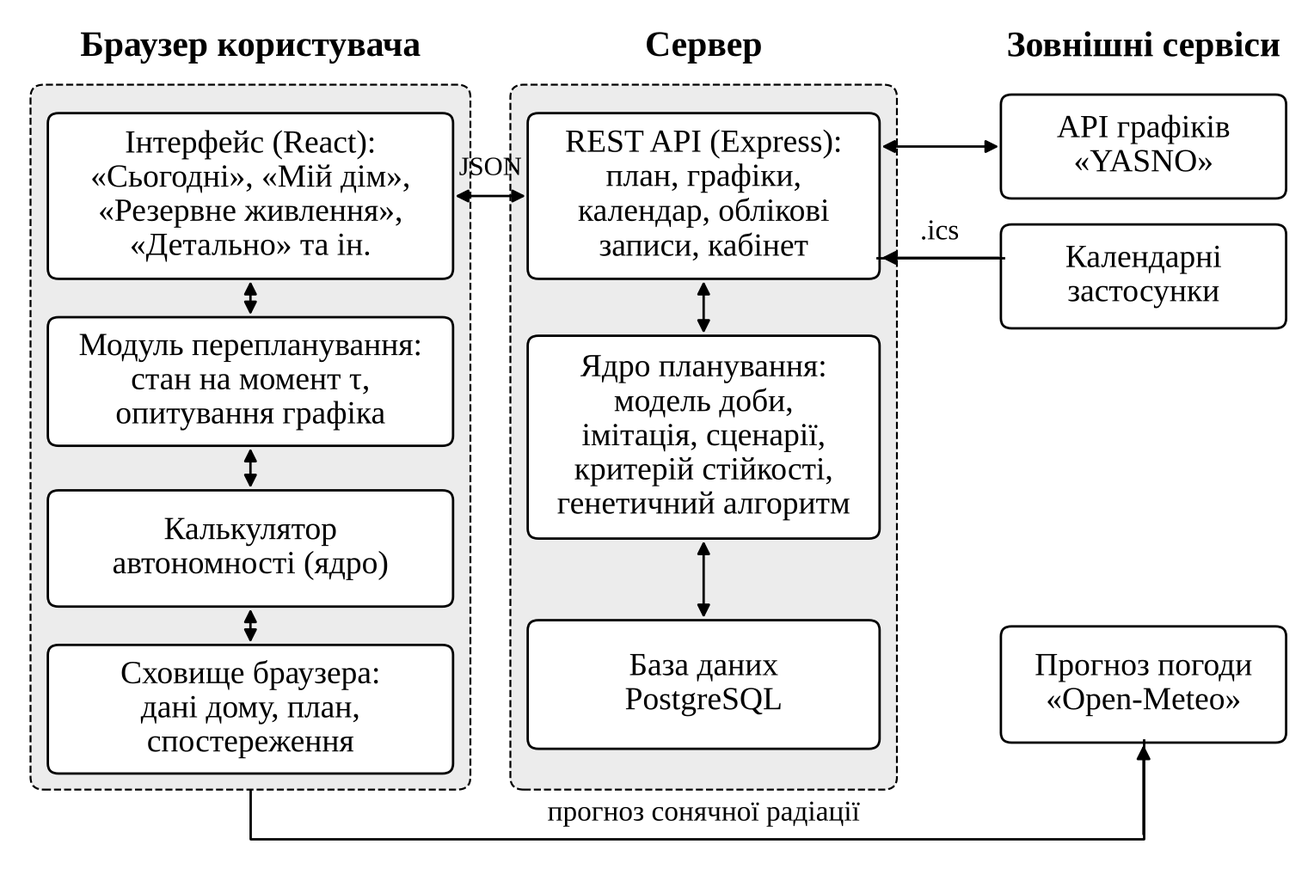
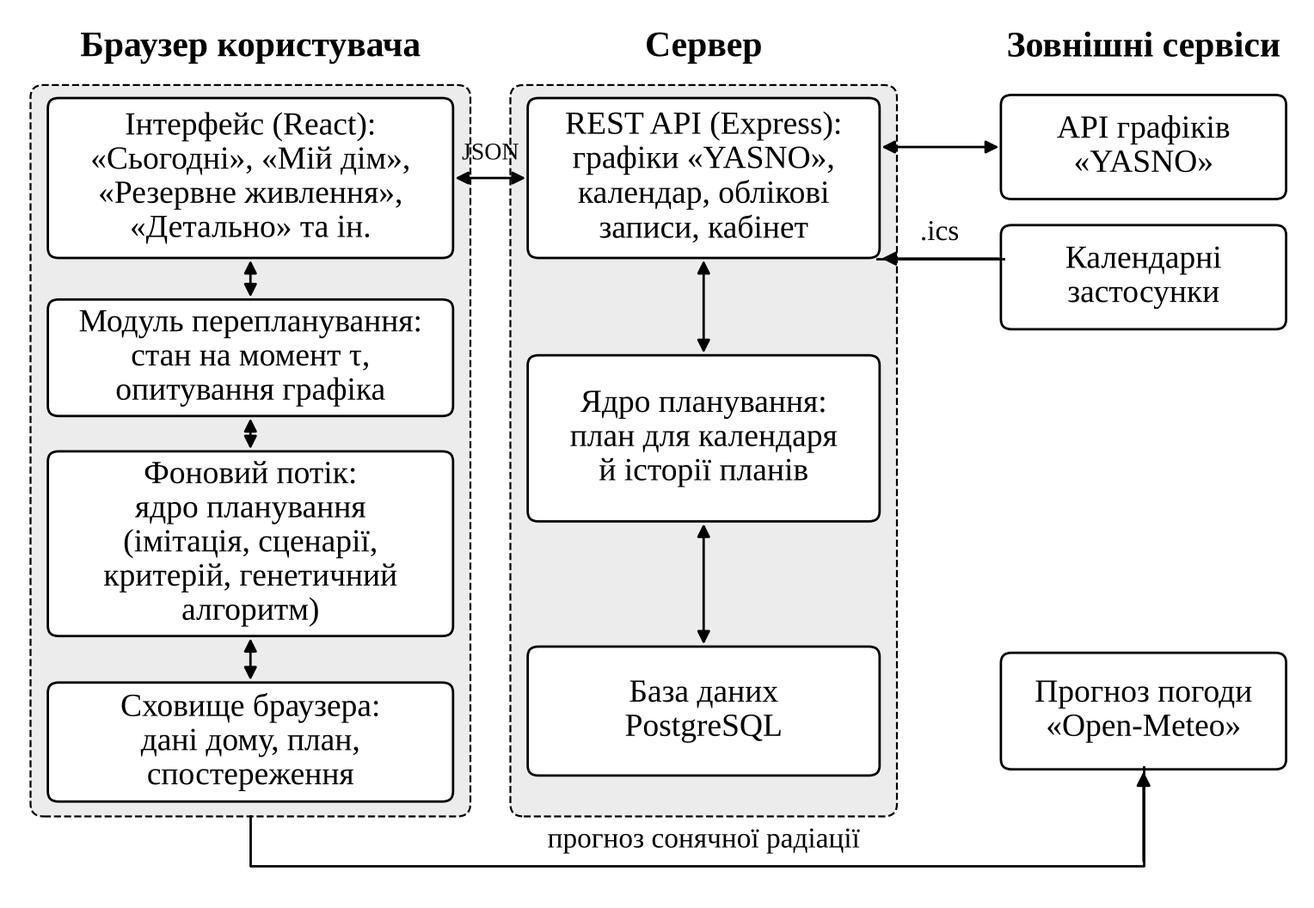
Розділ 2 за поточним станом сервісу: план у браузері, поради щодо приладів, календар у базі
Підрозділ 2.9 описує розрахунок плану у фоновому потоці браузера,
розгортання на Netlify і Render, поради щодо приладів і розрахунковий
стан станції та панелей, таблицю calendar_subscriptions. Рис. 2.5
перемальовано, табл. 2.7 доповнено. У build.py дуже довгі назви полів
у таблицях можуть розриватися після «_».

Claude-Session: https://claude.ai/code/session_01LEJhfhQpdjBqb79k9T4kmb

diff --git a/docs/thesis/figures/make.py b/docs/thesis/figures/make.py
@@ -117,37 +117,37 @@ def ga_scheme():
 
 
 def service_scheme():
-    fig, ax = canvas(9.6, 6.4)
-    ax.set_ylim(-0.45, 6.4)
+    fig, ax = canvas(9.6, 6.6)
+    ax.set_ylim(-0.45, 6.6)
     grey = '#ececec'
     for cx, title in [(1.75, 'Браузер користувача'), (5.15, 'Сервер'), (8.45, 'Зовнішні сервіси')]:
-        ax.text(cx, 6.15, title, ha='center', va='center', fontsize=15, fontweight='bold')
-    ax.add_patch(FancyBboxPatch((0.1, 0.15), 3.3, 5.7, boxstyle='round,pad=0,rounding_size=0.1', fc=grey, ec='black', lw=0.8, ls='--'))
-    ax.add_patch(FancyBboxPatch((3.7, 0.15), 2.9, 5.7, boxstyle='round,pad=0,rounding_size=0.1', fc=grey, ec='black', lw=0.8, ls='--'))
-    box(ax, 1.75, 4.95, 3.0, 1.3, 'Інтерфейс (React):\n«Сьогодні», «Мій дім»,\n«Резервне живлення»,\n«Детально» та ін.', size=13.5)
-    box(ax, 1.75, 3.45, 3.0, 1.0, 'Модуль перепланування:\nстан на момент τ,\nопитування графіка', size=13.5)
-    box(ax, 1.75, 2.1, 3.0, 0.9, 'Калькулятор\nавтономності (ядро)', size=13.5)
-    box(ax, 1.75, 0.8, 3.0, 1.0, 'Сховище браузера:\nдані дому, план,\nспостереження', size=13.5)
-    box(ax, 5.15, 4.95, 2.6, 1.3, 'REST API (Express):\nплан, графіки,\nкалендар, облікові\nзаписи, кабінет', size=13.5)
-    box(ax, 5.15, 3.0, 2.6, 1.6, 'Ядро планування:\nмодель доби,\nімітація, сценарії,\nкритерій стійкості,\nгенетичний алгоритм', size=13.5)
+        ax.text(cx, 6.35, title, ha='center', va='center', fontsize=15, fontweight='bold')
+    ax.add_patch(FancyBboxPatch((0.1, 0.15), 3.3, 5.9, boxstyle='round,pad=0,rounding_size=0.1', fc=grey, ec='black', lw=0.8, ls='--'))
+    ax.add_patch(FancyBboxPatch((3.7, 0.15), 2.9, 5.9, boxstyle='round,pad=0,rounding_size=0.1', fc=grey, ec='black', lw=0.8, ls='--'))
+    box(ax, 1.75, 5.3, 3.0, 1.25, 'Інтерфейс (React):\n«Сьогодні», «Мій дім»,\n«Резервне живлення»,\n«Детально» та ін.', size=13.5)
+    box(ax, 1.75, 3.85, 3.0, 0.9, 'Модуль перепланування:\nстан на момент τ,\nопитування графіка', size=13.5)
+    box(ax, 1.75, 2.35, 3.0, 1.45, 'Фоновий потік:\nядро планування\n(імітація, сценарії,\nкритерій, генетичний\nалгоритм)', size=13.5)
+    box(ax, 1.75, 0.75, 3.0, 0.92, 'Сховище браузера:\nдані дому, план,\nспостереження', size=13.5)
+    box(ax, 5.15, 5.3, 2.6, 1.25, 'REST API (Express):\nграфіки «YASNO»,\nкалендар, облікові\nзаписи, кабінет', size=13.5)
+    box(ax, 5.15, 3.2, 2.6, 1.3, 'Ядро планування:\nплан для календаря\nй історії планів', size=13.5)
     box(ax, 5.15, 1.0, 2.6, 1.0, 'База даних\nPostgreSQL', size=13.5)
-    box(ax, 8.45, 5.35, 2.1, 0.8, 'API графіків\n«YASNO»', size=13.5)
-    box(ax, 8.45, 4.3, 2.1, 0.8, 'Календарні\nзастосунки', size=13.5)
+    box(ax, 8.45, 5.55, 2.1, 0.8, 'API графіків\n«YASNO»', size=13.5)
+    box(ax, 8.45, 4.5, 2.1, 0.8, 'Календарні\nзастосунки', size=13.5)
     box(ax, 8.45, 1.0, 2.1, 0.9, 'Прогноз погоди\n«Open-Meteo»', size=13.5)
 
     def both(p1, p2):
         ax.annotate('', xy=p2, xytext=p1, arrowprops=dict(arrowstyle='<|-|>', color='black', lw=1, mutation_scale=11))
 
-    both((3.25, 4.95), (3.85, 4.95))
-    ax.text(3.55, 5.12, 'JSON', ha='center', fontsize=11)
-    both((1.75, 4.3), (1.75, 3.95))
-    both((1.75, 2.95), (1.75, 2.55))
-    both((1.75, 1.65), (1.75, 1.3))
-    both((5.15, 4.3), (5.15, 3.8))
-    both((5.15, 2.2), (5.15, 1.5))
-    both((6.45, 5.35), (7.4, 5.35))
-    arrow(ax, [(7.4, 4.45), (6.45, 4.45)])
-    ax.text(6.92, 4.6, '.ics', ha='center', fontsize=12)
+    both((3.25, 5.3), (3.85, 5.3))
+    ax.text(3.55, 5.45, 'JSON', ha='center', fontsize=10)
+    both((1.75, 4.675), (1.75, 4.3))
+    both((1.75, 3.4), (1.75, 3.075))
+    both((1.75, 1.625), (1.75, 1.21))
+    both((5.15, 4.675), (5.15, 3.85))
+    both((5.15, 2.55), (5.15, 1.5))
+    both((6.45, 5.55), (7.4, 5.55))
+    arrow(ax, [(7.4, 4.65), (6.45, 4.65)])
+    ax.text(6.92, 4.8, '.ics', ha='center', fontsize=12)
     # браузер сам запитує прогноз сонячної радіації
     arrow(ax, [(1.75, 0.15), (1.75, -0.25), (8.45, -0.25), (8.45, 0.55)])
     ax.text(5.15, -0.1, 'прогноз сонячної радіації', ha='center', fontsize=12)

diff --git a/docs/thesis/build.py b/docs/thesis/build.py
@@ -34,6 +34,7 @@ try:
 except ImportError:
     HYPHEN = None
 SHY = '\u00ad'   # м'який перенос: Word показує дефіс, лише коли справді переносить слово
+ZWSP = '\u200b'  # невидиме місце розриву рядка без дефіса
 
 BODY = '0'          # «0» у шаблоні: основний текст з відступом 1,25 см
 H1, H2 = '1', '2'
@@ -160,6 +161,8 @@ def table(doc, rows):
     t = doc.add_table(rows=len(rows), cols=len(rows[0]))
     t.style = doc.styles['Table Grid']
     t.autofit = False
+    # дуже довгу назву з бази (`calendar_subscriptions`) дозволяємо розривати після «_»
+    rows = [[re.sub(r'`([^`]{17,})`', lambda m: '`' + m.group(1).replace('_', '_' + ZWSP) + '`', cell) for cell in row] for row in rows]
     # Ширина колонки пропорційна середній довжині тексту в ній, але не менша за найдовше слово,
     # щоб слова не розривалися; разом 170 мм (ширина тексту на сторінці).
     minimum = min_widths(rows)
@@ -169,7 +172,7 @@ def table(doc, rows):
         minimum = min_widths(rows)
     if sum(minimum) > 170:
         minimum = [m * 170 / sum(minimum) for m in minimum]
-    weights = [max(sum(len(row[c].replace(SHY, '')) for row in rows) / len(rows), 4) for c in range(len(rows[0]))]
+    weights = [max(sum(len(re.sub(f'[{SHY}{ZWSP}]', '', row[c])) for row in rows) / len(rows), 4) for c in range(len(rows[0]))]
     widths = [170 * w / sum(weights) for w in weights]
     for _ in range(len(widths)):
         narrow = [c for c, w in enumerate(widths) if w < minimum[c] - 1e-6]
@@ -216,7 +219,7 @@ def min_widths(rows):
     for c in range(len(rows[0])):
         pieces = []
         for row in rows:
-            for word in re.sub(r'[`*{}^]', '', row[c]).split():
+            for word in re.split(f'[\\s{ZWSP}]+', re.sub(r'[`*{}^]', '', row[c])):
                 parts = word.split(SHY)
                 pieces += [p + '-' for p in parts[:-1]] + parts[-1:]
         out.append(word_mm(max(pieces, key=word_mm, default='')) + 2 * CELL_MARGIN_MM + 0.6)

diff --git a/docs/thesis/rozdil-2.md b/docs/thesis/rozdil-2.md
@@ -315,27 +315,43 @@ S_i(τ) = {max(e_i, τ), …, l_i − d_i} ∪ {−1}. (2.16)
 
 Метод, описаний у підрозділах 2.1–2.8, реалізується у веб-сервісі. Користувачем сервісу є мешканець квартири або приватного будинку, який має зарядну станцію і, можливо, генератор чи сонячні панелі. Виходячи з поставлених у підрозділі 1.6 завдань і огляду аналогів, сформульовано такі функціональні вимоги до сервісу:
 
-– введення даних домогосподарства: постійних навантажень, приладів з вікнами роботи і пріоритетами, резервних джерел;
+– введення даних домогосподарства: постійних навантажень, приладів з вікнами роботи і пріоритетами, резервних джерел (однієї або кількох станцій, генераторів і сонячних панелей);
 
 – отримання графіка відключень автоматично з відкритого програмного інтерфейсу «YASNO» для своєї черги або введення графіка вручну для інших регіонів;
+
+– отримання прогнозу сонячного випромінювання для місця, де встановлено панелі;
 
 – складання плану на сьогодні й завтра запропонованим методом і порівняння з базовими методами;
 
 – відображення плану у вигляді, зрозумілому без технічних знань: які прилади можна вмикати зараз, які краще пізніше і чому;
 
+– показ розрахункового стану резервних джерел на поточний момент: заряду станції, потужності, яку вона віддає, і генерації сонячних панелей;
+
 – перебудова плану після зміни графіка і за повідомленнями користувача про фактичний стан мережі;
 
 – оцінка автономності: на скільки годин вистачить резервних джерел при поточному навантаженні;
 
-– нагадування про дії за планом (сповіщення в браузері, експорт до календаря).
+– нагадування про дії за планом (сповіщення в браузері, експорт і підписка на календар).
 
-До нефункціональних вимог належать робота на мобільному телефоні, оскільки під час відключення комп'ютер часто недоступний, робота з останнім збереженим планом без зв'язку з сервером і відсутність платних зовнішніх сервісів.
+До нефункціональних вимог належать:
 
-Структурну схему сервісу наведено на рис. 2.5. Сервіс має клієнт-серверну архітектуру. Клієнтська частина виконується в браузері користувача і відповідає за інтерфейс, зберігання введених даних і перебудову плану. Серверна частина надає програмний інтерфейс (REST API) у форматі JSON, звертається до зовнішніх джерел графіків і містить ядро планування. Ядро оформлено як окремий модуль без залежностей від сервера і браузера, тому той самий код використовується сервером, клієнтом (калькулятор автономності) і програмами експериментів розділу 3.
+– робота на мобільному телефоні, оскільки під час відключення комп'ютер часто недоступний;
+
+– складання плану без зв'язку з сервером, бо під час відключень зв'язок теж буває нестабільним;
+
+– доступ за протоколом HTTPS, без якого браузер не дозволяє встановити сайт на телефон і показувати сповіщення;
+
+– відсутність платних зовнішніх сервісів.
+
+Структурну схему сервісу наведено на рис. 2.5. Сервіс має клієнт-серверну архітектуру, але план розраховується на боці клієнта. Ядро планування оформлено як окремий модуль без залежностей від сервера і браузера, тому той самий код виконується в браузері, на сервері і в програмах експериментів розділу 3. Клієнтська частина відповідає за інтерфейс, зберігання введених даних, розрахунок і перебудову плану. Генетичний алгоритм запускається в окремому фоновому потоці браузера (Web Worker), тож сторінка не зупиняється на час розрахунку. Серверна частина надає програмний інтерфейс (REST API) у форматі JSON: отримує графіки від оператора, обслуговує підписку на календар і облікові записи та працює з базою даних.
 
 ![Рисунок 2.5 – Структурна схема веб-сервісу](figures/ris-2-5.png)
 
-Графік «YASNO» сервер отримує через власний програмний інтерфейс, бо браузер не може звертатися до «YASNO» напряму з іншого домену. Отримані графіки кешуються на сервері на 5 хв, щоб не надсилати оператору зайвих запитів. Прогноз сонячного випромінювання, навпаки, браузер запитує в «Open-Meteo» сам, бо цей сервіс дозволяє такі запити. Сервер прогнозу не запитує, тому в планах, які він рахує сам, сонячні панелі враховуються за кількістю сонячних годин, переданою або збереженою разом з даними дому. Календарні застосунки періодично завантажують з сервера файл у форматі iCalendar, і сервер перераховує план за свіжим графіком, але не частіше ніж раз на 15 хв. Призначення основних модулів наведено в табл. 2.7.
+Розрахунок плану в браузері обрано з трьох причин. По-перше, так виконується вимога складати план без зв'язку з сервером. По-друге, сервер розміщено на безкоштовному тарифі хостингу, де обчислювальні ресурси обмежені, а сервер без запитів призупиняється і потім запускається до хвилини. По-третє, навантаження на сервер не зростає з кількістю користувачів, бо кожен браузер рахує план лише для свого домогосподарства. Сервер теж має ядро планування і рахує план сам у двох випадках: коли календарний застосунок завантажує файл без участі браузера і коли план зберігається в історії облікового запису.
+
+Графік «YASNO» сервер отримує через власний програмний інтерфейс, бо браузер не може звертатися до «YASNO» напряму з іншого домену. Отримані графіки кешуються на сервері на 5 хв, щоб не надсилати оператору зайвих запитів. Прогноз сонячного випромінювання, навпаки, браузер запитує в «Open-Meteo» сам, бо цей сервіс дозволяє такі запити. Сервер прогнозу не запитує, тому в планах, які він рахує сам, сонячні панелі враховуються за кількістю сонячних годин, переданою або збереженою разом з даними дому. Календарні застосунки періодично завантажують з сервера файл у форматі iCalendar, і сервер перераховує план за свіжим графіком, але не частіше ніж раз на 15 хв.
+
+Клієнтська частина після збирання є набором статичних файлів і розміщується на «Netlify», який також пересилає запити до програмного інтерфейсу (шлях `/api/`) на сервер. Сервер і база даних PostgreSQL розміщені на «Render». Обидва сервіси використовуються на безкоштовних тарифах і працюють за протоколом HTTPS, що відповідає нефункціональним вимогам. Призначення основних модулів наведено в табл. 2.7.
 
 Таблиця 2.7 – Модулі веб-сервісу
 
@@ -347,12 +363,18 @@ S_i(τ) = {max(e_i, τ), …, l_i − d_i} ∪ {−1}. (2.16)
 | Критерій стійкості | ядро | Обчислення F(s) за формулою (2.14) і оцінка плану на тестових сценаріях |
 | Методи планування | ядро | План без планування, жадібний алгоритм, генетичний алгоритм і його стійкий варіант |
 | Калькулятор автономності | ядро | Час роботи резервних джерел при заданому навантаженні |
-| Програмний інтерфейс | сервер | Запити на план, графіки «YASNO», календар, облікові записи, кабінет |
+| Програмний інтерфейс | сервер | Графіки «YASNO», підписка на календар, облікові записи, кабінет |
 | Сховище | сервер | Робота з базою даних PostgreSQL |
 | Інтерфейс користувача | клієнт | Розділи «Сьогодні», «Мій дім», «Резервне живлення», «Детально», «Як це працює» |
+| Фоновий розрахунок | клієнт | Виконання ядра планування в окремому потоці браузера |
 | Перепланування | клієнт | Стан на момент τ, опитування графіка, порівняння нового плану з попереднім |
+| Подання плану | клієнт | Поради щодо приладів на поточний момент, розрахунковий стан станції і сонячних панелей |
 
-Дані сервісу зберігаються двома способами. Без реєстрації дані домогосподарства, останній план і повідомлення користувача про фактичний стан мережі зберігаються в сховищі браузера, тож користуватися сервісом можна одразу. Для користувачів з обліковим записом сервер зберігає дані в реляційній базі PostgreSQL. Її структуру наведено в табл. 2.8.
+Окремо варто описати, як план подається користувачеві. На думку автора, розклад із точним часом запуску кожного приладу незручний для щоденного користування: щоб ним скористатися, людина мусить щоразу звіряти годинник з розкладом. Тому на головній сторінці для кожного приладу показано відповідь на просте питання, чи можна ввімкнути його зараз, з однією з трьох позначок: можна вмикати зараз; краще пізніше, із зазначенням часу і причини; сьогодні краще не вмикати. Відповідь отримується з імітації плану за опублікованим графіком (підрозділ 2.4). Для приладу перевіряється, чи вистачить на весь цикл ліміту мережі, потужності інвертора і заряду станції, якщо ввімкнути його зараз. Для приладів, які не можна живити від станції, додатково перевіряється запас 30 хв до наступного відключення, бо відключення може початися раніше за графік. Якщо ввімкнути прилад зараз не можна, радиться час із плану, а якщо прилад у план не потрапив, найближчий момент, коли цикл зможе відпрацювати. Повний розклад залишається доступним окремою кнопкою.
+
+З тієї самої імітації береться розрахунковий стан станції на поточний момент: заряд, потужність, яку станція віддає навантаженням або отримує на заряджання, і час, на який заряду вистачить до мінімально допустимого рівня. Генерація сонячних панелей на поточний момент обчислюється за формулами (2.8) і (2.9). Ці значення є розрахунком, а не вимірюванням, і в інтерфейсі так і позначені, бо фактична потужність приладів може відрізнятися від введеної користувачем. Якщо фактичний заряд станції інший, користувач вводить його, і план перебудовується з цього значення, як описано в підрозділі 2.8.
+
+Дані сервісу зберігаються двома способами. Без реєстрації дані домогосподарства, останній план і повідомлення користувача про фактичний стан мережі зберігаються в сховищі браузера, тож користуватися сервісом можна одразу. Для користувачів з обліковим записом передбачено зберігання даних на сервері в реляційній базі PostgreSQL. Крім того, у базі зберігаються підписки на календар, для яких обліковий запис не потрібен. Структуру бази наведено в табл. 2.8.
 
 Таблиця 2.8 – Структура бази даних
 
@@ -367,10 +389,13 @@ S_i(τ) = {max(e_i, τ), …, l_i − d_i} ∪ {−1}. (2.16)
 | `outage_schedules` | Збережені графіки | `household_id`, `name`, `day` | `households` |
 | `outage_intervals` | Інтервали відключень графіка | `schedule_id`, `starts_at`, `ends_at` | `outage_schedules` |
 | `plans` | Історія планів | `household_id`, `schedule_id`, `algorithm`, `input`, `result` | `households`, `outage_schedules` |
+| `calendar_subscriptions` | Підписки на календар | `token`, `household`, `choice`, `updated_at` | – |
 
 Поля таблиць відповідають позначенням моделі з табл. 2.1. Обмеження цілісності в базі (додатна потужність, пріоритет від 1 до 5, заряд від 0 до 100 %) збігаються з перевірками, які виконує модель доби, тож некоректні дані не потрапляють ні до бази, ні до розрахунку. Пароль зберігається лише у вигляді хешу, а в таблиці сесій – лише хеш токена з cookie, тому витік бази не дає змоги увійти від імені користувача. План у таблиці `plans` зберігається разом зі знімком вхідних даних (поле `input`) у форматі JSON, щоб його можна було відтворити навіть після зміни приладів. Усі резервні джерела зберігаються в одній таблиці `power_sources`, по рядку на джерело. Спільні поля (тип, назва, порядок) є в кожному рядку, а параметри станції, генератора і сонячних панелей мають свої стовпці. Обмеження в базі перевіряють, що для кожного типу задано все потрібне: для станції ємність, межі заряду і потужності, для генератора потужність, тривалість роботи на баку і рівень пального, для панелей пікову потужність і кількість сонячних годин або координати для прогнозу. Кілька станцій зберігаються окремо, а для планування зводяться в одну еквівалентну так, як описано в підрозділі 2.3.
 
-Типовий сценарій роботи виглядає так. Користувач один раз вводить дані про дім і вибирає свою чергу. Під час кожного відкриття сторінки клієнт отримує свіжий графік, надсилає серверу дані домогосподарства і момент τ, сервер будує модель, запускає стійкий генетичний алгоритм і повертає план разом з імітацією доби за опублікованим графіком та оцінкою на тестових сценаріях. Клієнт зберігає план і показує його. Поки сторінка відкрита, клієнт кожні 10 хв перевіряє графік і, якщо той змінився, запитує новий план з поточного моменту. Опис реалізації цих частин і результати експериментів наведено в розділі 3.
+Підписка на календар зберігається за випадковим токеном, який входить до посилання і відомий лише власникові, тому обліковий запис для неї не потрібен. Дані дому і вибрана черга «YASNO» записуються в поля `household` і `choice` у форматі JSON, щоб сервер міг перерахувати план без участі браузера. Ці дані зберігаються в базі, а не у файлі на сервері, бо на хостингу файли сервера стираються під час перезапуску.
+
+Типовий сценарій роботи виглядає так. Користувач один раз вводить дані про дім і вибирає свою чергу. Під час кожного відкриття сторінки клієнт отримує через сервер свіжий графік, будує модель з поточного моменту τ і запускає стійкий генетичний алгоритм у фоновому потоці. Результатом є план разом з імітацією доби за опублікованим графіком та оцінкою на тестових сценаріях. Клієнт зберігає план у сховищі браузера і показує поради щодо приладів і стан джерел. Поки сторінка відкрита, клієнт кожні 10 хв перевіряє графік і, якщо той змінився, перебудовує план з поточного моменту. Якщо зв'язку з сервером немає, план будується за останнім відомим графіком. Опис реалізації цих частин і результати експериментів наведено в розділі 3.
 
 ## Висновки до розділу 2
 
@@ -382,4 +407,6 @@ S_i(τ) = {max(e_i, τ), …, l_i − d_i} ∪ {−1}. (2.16)
 
 Генетичний алгоритм з цілочисельним кодуванням дає змогу шукати план за стійким критерієм за час, прийнятний для веб-сервісу: повний перебір навіть для п'яти приладів вимагав би близько 2·10^{9} імітацій доби. Те, що звичайний і стійкий варіанти алгоритму відрізняються лише критерієм, дає змогу в розділі 3 оцінити внесок саме урахування невизначеності.
 
-Перебудова плану з поточного моменту доповнює стійкий план: стійкість зменшує шкоду від змін, про які ще не відомо, а перебудова використовує зміни, про які вже стало відомо. Спроектований веб-сервіс з ядром планування, спільним для сервера, клієнта й експериментів, дає змогу перевірити метод на тестових розрахунках і в дослідній експлуатації, що описано в розділі 3.
+Перебудова плану з поточного моменту доповнює стійкий план: стійкість зменшує шкоду від змін, про які ще не відомо, а перебудова використовує зміни, про які вже стало відомо.
+
+У спроектованому веб-сервісі ядро планування спільне для клієнта, сервера й експериментів, а план рахується безпосередньо в браузері користувача. Тому сервіс складає план і без зв'язку з сервером, а сервер на безкоштовному хостингу відповідає лише за графіки, календар і зберігання даних. Користувач насамперед бачить не розклад, а пораду щодо кожного приладу на поточний момент, отриману з тієї самої імітації доби. Такий сервіс дає змогу перевірити метод на тестових розрахунках і в дослідній експлуатації, що описано в розділі 3.
